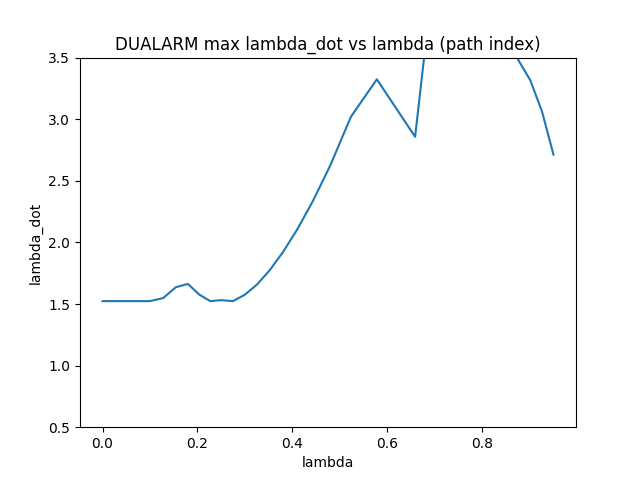
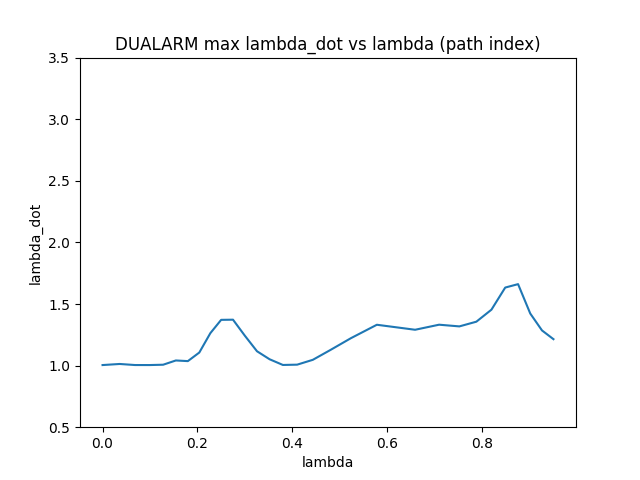
constraint solver sim update

diff --git a/constraint_solver/dual_arm/dual_arm_init_opt.py b/constraint_solver/dual_arm/dual_arm_init_opt.py
@@ -1,21 +1,13 @@
 import sys
 sys.path.append('../')
 from constraint_solver import *
+sys.path.append('../../toolbox')
+from robots_def import *
 
 def main():
 
 	###read actual curve
-
-	col_names=['q1', 'q2', 'q3','q4', 'q5', 'q6'] 
-	data = read_csv("curve_poses/arm2_js.csv", names=col_names)
-	curve_q1=data['q1'].tolist()
-	curve_q2=data['q2'].tolist()
-	curve_q3=data['q3'].tolist()
-	curve_q4=data['q4'].tolist()
-	curve_q5=data['q5'].tolist()
-	curve_q6=data['q6'].tolist()
-	curve_js2=np.vstack((curve_q1, curve_q2, curve_q3,curve_q4,curve_q5,curve_q6)).T
-	q_init2=curve_js2[0]
+	q_init2=[0.181847959,	0.435384629,	0.465584225,	0.677493313,	-1.070550513,	-0.266374094]
 
 	col_names=['X', 'Y', 'Z','direction_x','direction_y','direction_z'] 
 	data = read_csv("curve_poses/relative_path_tool_frame.csv", names=col_names)
@@ -28,12 +20,14 @@ def main():
 	relative_path=np.vstack((curve_x, curve_y, curve_z)).T
 	relative_path_direction=np.vstack((curve_direction_x, curve_direction_y, curve_direction_z)).T
 
-	opt=lambda_opt(relative_path,relative_path_direction,base2_R=np.array([[-1,0,0],[0,-1,0],[0,0,1]]),	base2_p=np.array([6000,0,0]))
+	robot1=abb1200()
+	robot2=abb6640()
+	opt=lambda_opt(relative_path,relative_path_direction,robot1=robot1,robot2=robot2,base2_R=np.array([[-1,0,0],[0,-1,0],[0,0,1]]),	base2_p=np.array([3000,0,0]))
 
 
 	###########################################diff evo opt############################################
-	lowerer_limit=np.append(opt.joint_lowerer_limit,[-np.pi])
-	upper_limit=np.append(opt.joint_upper_limit,[np.pi])
+	lowerer_limit=np.append(robot2.lowerer_limit,[-np.pi])
+	upper_limit=np.append(robot2.upper_limit,[np.pi])
 	bnds=tuple(zip(lowerer_limit,upper_limit))
 	res = differential_evolution(opt.dual_arm_opt, bnds, args=None,workers=-1,
 									x0 = np.append(q_init2,[0]),
@@ -46,12 +40,12 @@ def main():
 	print(res)
 
 	q_init2=res.x[:-1]
-	pose2_world_now=fwd(q_init2,opt.base2_R,opt.base2_p)
+	pose2_world_now=robot2.fwd(q_init2,opt.base2_R,opt.base2_p)
 
 	R_temp=opt.direction2R(np.dot(pose2_world_now.R,opt.curve_normal[0]),-opt.curve[1]+opt.curve[0])
 	R=np.dot(R_temp,Rz(res.x[-1]))
 
-	q_init1=inv(pose2_world_now.p,R)[0]
+	q_init1=robot1.inv(pose2_world_now.p,R)[0]
 	###########################################stepwise qp solver#####################################################
 	q_out1, q_out2=opt.dual_arm_stepwise_optimize(q_init1,q_init2)
 

diff --git a/greedy_fitting/greedy_simplified.py b/greedy_fitting/greedy_simplified.py
@@ -85,7 +85,7 @@ class greedy_fit(fitting_toolbox):
 	def movej_fit_greedy(self,curve,curve_backproj,curve_backproj_js,curve_R):
 		
 
-		return self.movej_fit(curve,curve_backproj,curve_backproj_js,curve_R)
+		return self.movej_fit(curve,curve_backproj,curve_backproj_js,curve_R,self.curve_fit_js[-1] if len(self.curve_fit_js)>0 else [])
 
 
 	def movec_fit_greedy(self,curve,curve_backproj,curve_backproj_js,curve_R):
@@ -411,9 +411,11 @@ def main():
 
 
 	###set primitive choices, defaults are all 3
-	greedy_fit_obj.primitives={'movel_fit':greedy_fit_obj.movel_fit_greedy,'movec_fit':greedy_fit_obj.movec_fit_greedy}
-	# greedy_fit_obj.primitives={'movec_fit':greedy_fit_obj.movec_fit_greedy}
+	# greedy_fit_obj.primitives={'movel_fit':greedy_fit_obj.movel_fit_greedy,'movec_fit':greedy_fit_obj.movec_fit_greedy}
+	
+	greedy_fit_obj.primitives={'movej_fit':greedy_fit_obj.movej_fit_greedy}
 	# greedy_fit_obj.primitives={'movel_fit':greedy_fit_obj.movel_fit_greedy}
+	# greedy_fit_obj.primitives={'movec_fit':greedy_fit_obj.movec_fit_greedy}
 
 	breakpoints,primitives_choices,points=greedy_fit_obj.fit_under_error(1.)
 	# breakpoints,primitives_choices,points=greedy_fit_obj.smooth_slope(greedy_fit_obj.curve_fit,greedy_fit_obj.curve_fit_R,breakpoints,primitives_choices,points)

diff --git a/simulation/gazebo_sim/execute_traj2.py b/simulation/gazebo_sim/execute_traj2.py
@@ -4,14 +4,15 @@ import numpy as np
 from pandas import *
 
 sys.path.append('../../toolbox')
-from robot_def import *
+from robots_def import *
 
 def main():
     robot1="abb1200"
     robot2="abb6640"
+    robot1_tool=abb1200()
+    robot2_tool=abb6640()
     url={robot1:'rr+tcp://localhost:23333?service=robot',robot2:'rr+tcp://localhost:12222?service=robot'}
     filename={robot1:'arm1.csv',robot2:'arm2.csv'}
-    print(url[robot1])
 
     base2_R=np.array([[-1,0,0],[0,-1,0],[0,0,1]])
     base2_p=np.array([3000,0,0])
@@ -37,10 +38,10 @@ def main():
     curve_js2=np.vstack((curve_q1, curve_q2, curve_q3,curve_q4,curve_q5,curve_q6)).T
 
     p_prev=np.zeros(3)
-    ###find path length
+    ###find path length to sync motion in trajectory mode
     lam=[0]
     for i in range(len(curve_js1)-1):
-        p_new=fwd(curve_js1[i+1]).p-fwd(curve_js2[i+1],base2_R,base2_p).p
+        p_new=robot1_tool.fwd(curve_js1[i+1]).p-robot2_tool.fwd(curve_js2[i+1],base2_R,base2_p).p
         lam.append(lam[-1]+np.linalg.norm(p_new-p_prev))
         p_prev=p_new
     ###normalize lam, 

diff --git a/greedy_fitting/fitting_toolbox.py b/greedy_fitting/fitting_toolbox.py
@@ -234,9 +234,9 @@ class fitting_toolbox(object):
 		return curve_fit,curve_fit_R,curve_fit_js,max_error
 
 
-	def movej_fit(self,curve,curve_backproj,curve_backproj_js,curve_R):
+	def movej_fit(self,curve,curve_backproj,curve_backproj_js,curve_R,q_constraint=[]):
 		###no constraint
-		if len(self.curve_fit)==0:
+		if len(q_constraint)==0:
 			A=np.vstack((np.ones(len(curve_backproj_js)),np.arange(0,len(curve_backproj_js)))).T
 			b=curve_backproj_js
 			res=np.linalg.lstsq(A,b,rcond=None)[0]
@@ -246,7 +246,7 @@ class fitting_toolbox(object):
 			start_pose=self.robot.fwd(curve_backproj_js[0])
 		###with constraint point
 		else:
-			start_point=self.curve_fit_js[-1]
+			start_point=q_constraint
 			start_pose=self.robot.fwd(start_point)
 
 			if len(slope_constraint)!=0:

diff --git a/constraint_solver/dual_arm/dual_arm_opt.py b/constraint_solver/dual_arm/dual_arm_opt.py
@@ -21,10 +21,10 @@ base2_R=np.array([[-1,0,0],[0,-1,0],[0,0,1]])
 base2_p=np.array([3000,0,0])
 opt=lambda_opt(relative_path,relative_path_direction,robot1=robot1,robot2=robot2,base2_R=base2_R,base2_p=base2_p)
 
-# q_init2=[0.181847959,	0.435384629,	0.465584225,	0.677493313,	-1.070550513,	-0.266374094]
+# q_init2=[0.099968488,	0.499563298,	0.017498572,	3.968958491,	-0.829059849,	4.78426943]
 # pose2_world_now=robot2.fwd(q_init2,opt.base2_R,opt.base2_p)
 # R_temp=opt.direction2R(np.dot(pose2_world_now.R,opt.curve_normal[0]),np.dot(pose2_world_now.R,-opt.curve[1]+opt.curve[0]))
-# R=np.dot(R_temp,Rz(0))
+# R=np.dot(R_temp,Rz(-1.5259895))
 # q_init1=robot1.inv(pose2_world_now.p,R)[0]
 
 q_init1=np.radians([0,-25,31,6,-31,0])

diff --git a/constraint_solver/constraint_solver.py b/constraint_solver/constraint_solver.py
@@ -21,8 +21,6 @@ class lambda_opt(object):
 		self.base2_R=base2_R
 		self.base2_p=base2_p
 		self.joint_vel_limit=np.radians([110,90,90,150,120,235])
-		self.joint_upper_limit=np.radians([220.,160.,70.,300.,120.,360.])
-		self.joint_lowerer_limit=np.radians([-220.,-40.,-180.,-300.,-120.,-360.])
 
 		###decrease curve density to simplify computation
 		num_per_step=int(len(self.curve)/steps)	
@@ -198,10 +196,10 @@ class lambda_opt(object):
 
 			except:
 				traceback.print_exc()
-				print(q_all1[-1],q_all2[-1])
+				# print(q_all1[-1],q_all2[-1])
 				q_out1.append(q_all1[-1])
 				q_out2.append(q_all2[-1])			
-				# raise AssertionError
+				raise AssertionError
 				break
 
 			q_out1.append(q_all1[-1])
